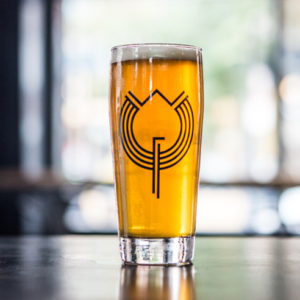
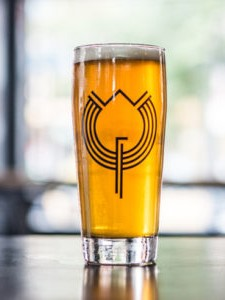
fbhjkfds

diff --git a/Capstone.Web/Content/MobileCss.css b/Capstone.Web/Content/MobileCss.css
@@ -22,14 +22,14 @@
 @media (min-width: 1000px) {
     .picdiv {
         --height: 50% !important;
-        --width: 60% !important;
+        --width: 55% !important;
         height: 50% !important;
-        width: 60% !important;
+        width: 55% !important;
         
     }
     .picdiv img {
         height: 75% !important;
-        width: 75% !important;
+        width: 90% !important;
         
     }
 }

diff --git a/Capstone.Web/Controllers/HomeController.cs b/Capstone.Web/Controllers/HomeController.cs
@@ -299,7 +299,7 @@ namespace Capstone.Web.Controllers
 
         //add beer post
         [HttpPost]
-        public ActionResult AddBeer(AddBeerModel b, int brewId, string beertypes)
+        public ActionResult AddBeer(AddBeerModel b, int brewId, string beertypes, HttpPostedFileBase photo)
         {
             if (beertypes!="null")
             {
@@ -311,13 +311,29 @@ namespace Capstone.Web.Controllers
                 RedirectToAction("Index");
             }
 
-            //if (!ModelState.IsValid)
-            //{
-            //    return View("AddBeer", b);
-            //}
 
             b.BreweryId = brewId;
-            _brew.AddNewBeer(b);
+
+            var filename = "";
+            if (photo != null)
+            {
+                if (!isValidContentType(photo.ContentType))
+                {
+                    ViewBag.Error = "wrong format";
+                    return View("FileUpload");
+                }
+                else
+                {
+                    filename = $"{b.Name}.jpg";
+                    var path = Path.Combine(Server.MapPath("~/Photos/Beers"), filename);
+
+                    photo.SaveAs(path);
+
+                    //return RedirectToAction("ManageBeers");
+                }
+            }
+            _brew.AddNewBeer(b, filename);
+
             return Redirect("ManageBeers");
         }
 
@@ -482,12 +498,17 @@ namespace Capstone.Web.Controllers
                     {
                         EmailAddress = model.EmailAddress,
                         UserName = model.UserName,
-                        Password = model.Password
+                        Password = model.Password,
+                        UserId = model.UserId
                     };
 
                     FormsAuthentication.SetAuthCookie(users.EmailAddress, true);
                     _brew.UserRegistration(users);
-                    SessionKey.Email = users.EmailAddress;
+                    User ucuser = _brew.GetUser(model.EmailAddress, model.UserName);
+                    Session[SessionKey.Email] = users.EmailAddress;
+                    Session[SessionKey.UserID] = users.UserName;
+
+                    Session["UserId"] = ucuser.UserId;
                     Session["LoggedIn"] = "true";
                     return RedirectToAction("Index");
                 }

diff --git a/Capstone.Web/DAL/BreweryServiceDAL.cs b/Capstone.Web/DAL/BreweryServiceDAL.cs
@@ -550,11 +550,11 @@ namespace Capstone.Web.DAL
         #region --- Beer Methods ---
 
 
-        public bool AddNewBeer(AddBeerModel newBeer)
+        public bool AddNewBeer(AddBeerModel newBeer, string photoname)
         {
             //add image later
             string SQL_AddBeer = "Insert into beers (name, description, abv, beer_type, brewery_id) Values(@Name, @Description, @AlcoholByVolume, @BeerType, @brewId);";
-            int beerID = -1;
+            int beerID = 0;
             using (SqlConnection conn = new SqlConnection(connectionString))
             {
                 conn.Open();
@@ -569,13 +569,21 @@ namespace Capstone.Web.DAL
                 beerID = (int)cmd.ExecuteScalar();
 
             }
-            string picsetup = "insert into beerPhotos values('defaultPhoto.jpg',@beerid)";
+            string picsetup = "insert into beerPhotos values(@photoname, @beerid,@breweryid)";
+
+            if (photoname==null)
+            {
+                photoname = "defaultPhoto.jpg";
+            }
+
 
             using (SqlConnection conn = new SqlConnection(connectionString))
             {
                 conn.Open();
                 SqlCommand cmd = new SqlCommand(picsetup, conn);
+                cmd.Parameters.AddWithValue("@photoname", photoname);
                 cmd.Parameters.AddWithValue("@beerid", beerID);
+                cmd.Parameters.AddWithValue("@breweryid", newBeer.BreweryId);
                 cmd.ExecuteNonQuery();
             }
 

diff --git a/Capstone.Web/DAL/IBreweryServiceDAL.cs b/Capstone.Web/DAL/IBreweryServiceDAL.cs
@@ -36,7 +36,7 @@ namespace Capstone.Web.DAL
         
         //------------------------------------------------------Beer Methods
 
-        bool AddNewBeer(AddBeerModel beer);
+        bool AddNewBeer(AddBeerModel beer, string photoname);
         void UpdateBeer(Beer b);
         List<Beer> GetAllBeersFromBrewery(int breweryId);
         List<Beer> GetAllBeers();

diff --git a/Capstone.Web/Models/ViewModels/RegisterViewModel.cs b/Capstone.Web/Models/ViewModels/RegisterViewModel.cs
@@ -19,5 +19,8 @@ namespace Capstone.Web.Models.ViewModels
         [Required(ErrorMessage = "REQUIRED")]
         [EmailAddress(ErrorMessage ="Not a valid Email")]
         public string EmailAddress { get; set; }
+
+        public int UserId { get; set; }
+
     }
 } 
